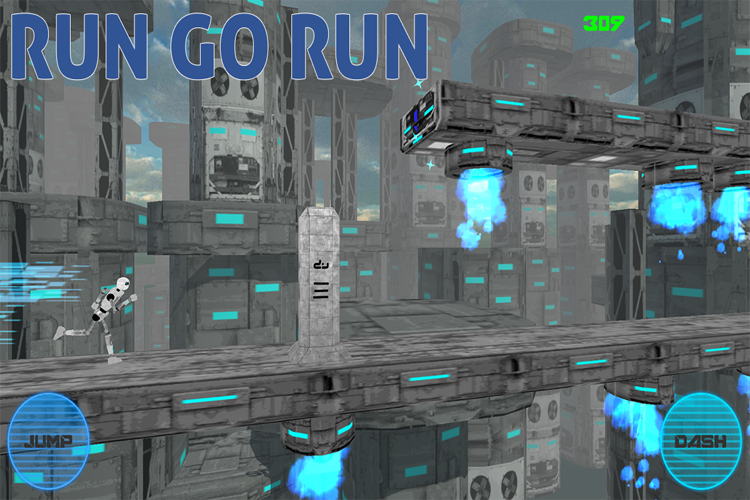
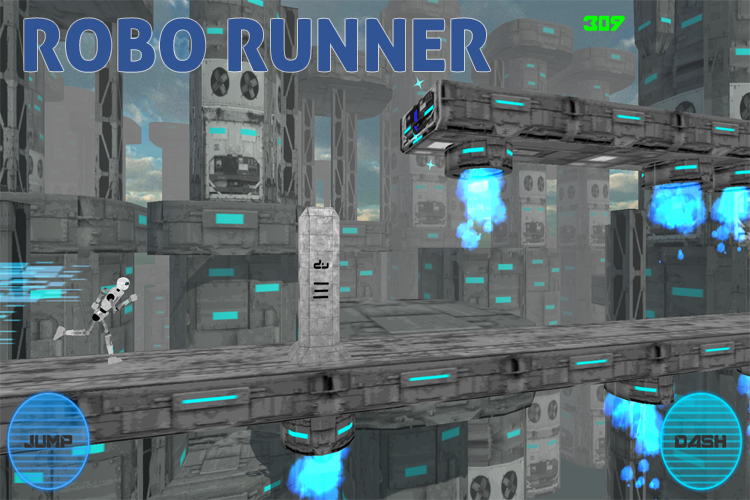
changes

Changed region(s): [[0.0, 0.0, 0.6747, 0.18]]

diff --git a/index.html b/index.html
@@ -37,7 +37,7 @@
         
 </style>
 
-
+<!--  Video I used to figure out the switching of content via JQuer:  https://www.youtube.com/watch?v=zQFokucBXVA  -->
 
 </head>
 
@@ -151,9 +151,8 @@
                 </div>
 
                 <div class="col-md-4" >
-                    <h3 id = "maindisplayTitle" style="font-size: 50px !important;color:#6774ED;"><b>RUN GO RUN</b></h3>
-                    <p>Welcome to Robo City. Where the notorious Dr. Circuitz has created you and instructed you to run through his platforms in the sky to show off his greatness. 
-                        Jump over and dash through obstacles in this infinite runner game. Collect power ups and avoid traps as the you pick up the speed on your way to greatness. 
+                    <h3 id = "maindisplayTitle" style="font-size: 50px !important;color:#6774ED;"><b>ROBO RUNNER</b></h3>
+                    <p>Freelancing job I did for a developer that needed my services to finish his product.
                     </p>
                     <h3>Tools Used:</h3>
                     <ul>
